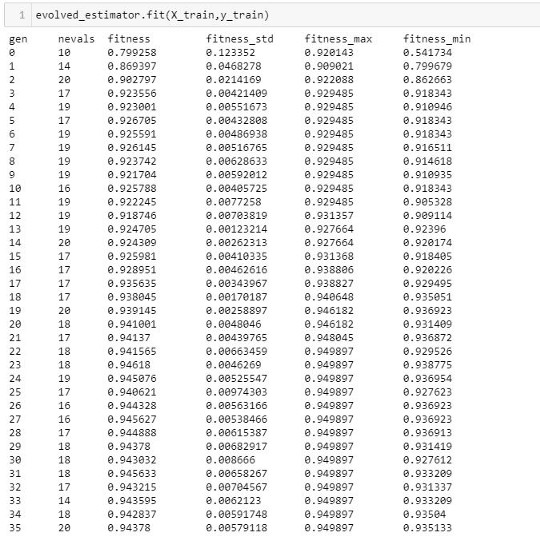
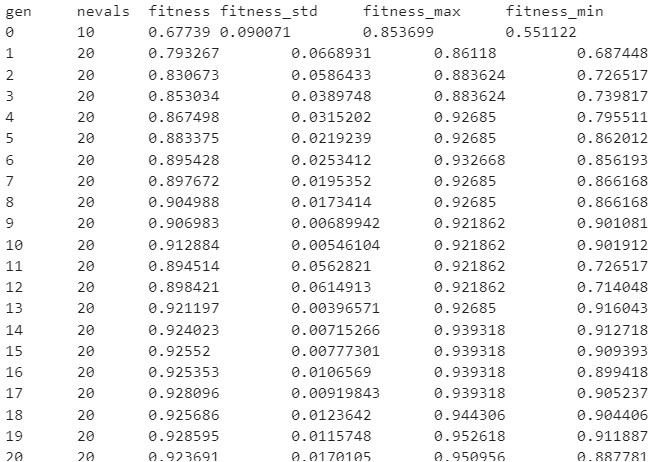
switch a sample that is a better advertising
this example gives reproducable a steady increase in max_fitness
(the in my opinion interesting value). Unfortunately it depends on
a weird 'tol' range (much too high). When a better range is used,
this example is no better than before. I tried to hint the user to
this fact inside the documentation.

Changed region(s): [[0.0, 0.0, 0.9481, 1.0], [0.8889, 0.1515, 1.0, 1.0], [0.8889, 0.0909, 1.0, 0.1212]]

diff --git a/docs/tutorials/basic_usage.rst b/docs/tutorials/basic_usage.rst
@@ -37,7 +37,7 @@ This is a classification problem, we'll fine-tune a Random Forest Classifier for
     from sklearn_genetic import GASearchCV
     from sklearn_genetic.space import Categorical, Integer, Continuous
     from sklearn.model_selection import train_test_split, StratifiedKFold
-    from sklearn.ensemble import RandomForestClassifier
+    from sklearn.neural_network import MLPClassifier
     from sklearn.datasets import load_digits
     from sklearn.metrics import accuracy_score
 
@@ -72,11 +72,13 @@ We must do this with all the hyperparameters we want to tune, like this:
 
 .. code:: python3
 
-    param_grid = {'min_weight_fraction_leaf': Continuous(0.01, 0.5, distribution='log-uniform'),
-                  'bootstrap': Categorical([True, False]),
-                  'max_depth': Integer(2, 30),
-                  'max_leaf_nodes': Integer(2, 35),
-                  'n_estimators': Integer(100, 300)}
+    # this library even performs well on weird ranges
+    # adjust this to better ranges for better results
+    param_grid = {'tol': Continuous(1e-2, 1e10, distribution='log-uniform'),
+                  'alpha': Continuous(1e-5, 2e-5),
+                  'activation': Categorical(['logistic', 'tanh']),
+                  'batch_size': Integer(300, 350)
+                 }
 
 Notice that in the case of *'boostrap'*, as it is a categorical variable, we do must define all its possible values.
 As well, in the 'min_weight_fraction_leaf', we used an additional parameter named distribution,
@@ -88,7 +90,7 @@ It has several options that we can use, for this first example, we'll keep it ve
 .. code:: python3
 
     # The base classifier to tune
-    clf = RandomForestClassifier()
+    clf = MLPClassifier(hidden_layer_sizes=(50, 30))
 
     # Our cross-validation strategy (it could be just an int)
     cv = StratifiedKFold(n_splits=3, shuffle=True)
@@ -99,7 +101,9 @@ It has several options that we can use, for this first example, we'll keep it ve
                                   scoring='accuracy',
                                   param_grid=param_grid,
                                   n_jobs=-1,
-                                  verbose=True)
+                                  verbose=True,
+                                  population_size=10,
+                                  generations=20)
 
 So now the setup is ready, note that are other parameters that can be specified in GASearchCV,
 the ones we used, are equivalents to the meaning in scikit-learn, besides the one already explained,
@@ -139,7 +143,7 @@ It will use by default the best set of hyperparameters it found, based on the cr
     y_predict_ga = evolved_estimator.predict(X_test)
     print(accuracy_score(y_test, y_predict_ga))
 
-In this case, we got an accuracy score in the test set of 0.93
+In this case, we got an accuracy score in the test set of 0.96
 
 .. image:: ../images/basic_usage_accuracy_2.jpeg
 
@@ -161,14 +165,15 @@ sklearn-genetic-opt comes with a plot function to analyze this log:
 .. code:: python3
 
     from sklearn_genetic.plots import plot_search_space
-    plot_search_space(evolved_estimator, features=['min_weight_fraction_leaf', 'max_depth', 'max_leaf_nodes', 'n_estimators'])
+    plot_search_space(evolved_estimator, features=['tol', 'batch_size', 'alpha'])
     plt.show()
 
 .. image:: ../images/basic_usage_plot_space_4.png
 
 What this plot shows us, is the distribution of the sampled values for each hyperparameter.
-We can see for example in the *'min_weight_fraction_leaf'* that the algorithm mostly sampled values below 0.15.
-You can also check every single combination of variables and the contour plot that represents the sampled values.
+We can see for example in the *'tol'* that the algorithm mostly sampled very small values
+(this range would have to be adjusted in a second iteration). You can also check every single
+combination of variables and the contour plot that represents the sampled values.
 
 
 Feature Selection Example
